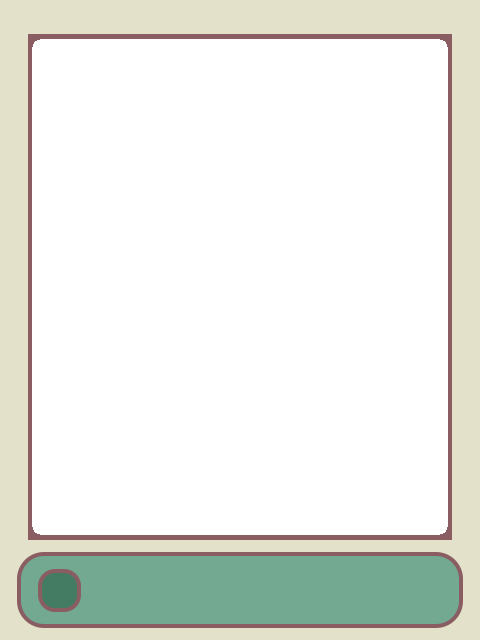
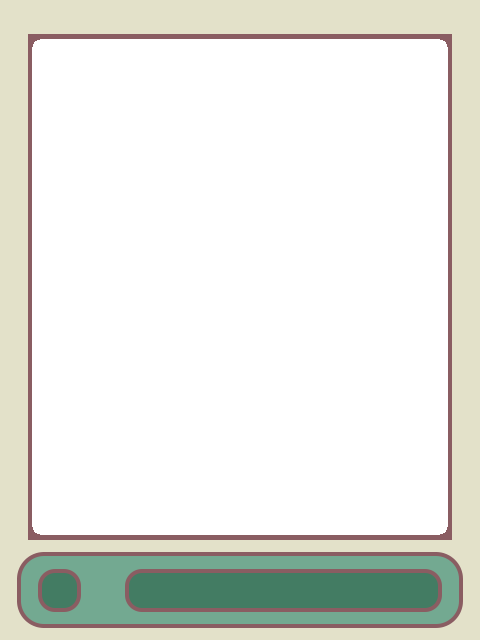
Add Main Control Buttons - Add red and blue main buttons - Control of buttons mimics the user input

Changed region(s): [[0.25, 0.875, 0.9375, 0.9688]]

diff --git a/crates/arcade/src/cabinet.rs b/crates/arcade/src/cabinet.rs
@@ -14,13 +14,23 @@ const JOYSTICK_FRAMES: [&str;9] = [
     "ControlDownRight.png", // 8
 ];
 
-pub struct JoystickState(usize);
+const BUTTON_FRAMES: [&str;4] = [
+    "BlueButtonUp.png",   // 0
+    "BlueButtonDown.png", // 1
+    "RedButtonUp.png",    // 2
+    "RedButtonDown.png",  // 3
+];
+
+struct JoystickState(usize);
+struct ButtonState(usize);
 
 pub struct Cabinet {
 
     cabinet_texture: Texture2D,
     joystick_atlas: TextureAtlas,
     joystick_state: JoystickState,
+    blue_button_state: ButtonState,
+    red_button_state: ButtonState,
 }
 
 
@@ -28,12 +38,14 @@ impl Cabinet {
     pub async fn new() -> Self {
         let cabinet_texture = load_texture("assets/cabinet/arcade_cabinet.png").await.unwrap();
 
-        let joystick_atlas = TextureAtlas::from_data("assets/atlas/joystick.json", Some("assets/atlas/joystick.png")).await.unwrap();
+        let joystick_atlas = TextureAtlas::from_data("assets/atlas/joystick_buttons.json", Some("assets/atlas/joystick_buttons.png")).await.unwrap();
 
         Cabinet {
             cabinet_texture,
             joystick_atlas,
             joystick_state: JoystickState(4),
+            blue_button_state: ButtonState(0),
+            red_button_state: ButtonState(2),
         }
     }
 
@@ -66,10 +78,17 @@ impl Cabinet {
         };
 
         self.joystick_state = JoystickState(3 * joystick_y + joystick_x);
+
+
+        self.blue_button_state = if is_key_down(KeyCode::Space) { ButtonState(1) } else { ButtonState(0) };
+        self.red_button_state = if is_key_down(KeyCode::LeftControl) || is_key_down(KeyCode::RightControl) { ButtonState(3) } else { ButtonState(2) };
+
     }
 
     pub fn draw(&self) {
         draw_texture(self.cabinet_texture, 0.0, 0.0, WHITE);
         self.joystick_atlas.draw_texture(JOYSTICK_FRAMES[self.joystick_state.0], 16., 536., 0., WHITE);
+        self.joystick_atlas.draw_texture(BUTTON_FRAMES[self.blue_button_state.0], 160., 573., 0., WHITE);
+        self.joystick_atlas.draw_texture(BUTTON_FRAMES[self.red_button_state.0], 160., 573., 0., WHITE);
     }
 }

diff --git a/crates/wfc/src/field.rs b/crates/wfc/src/field.rs
@@ -84,7 +84,7 @@ impl WaveFunctionSector {
             cells.push(WaveFunctionCell::new_empty(tileset));
         }
 
-        WaveFunctionSector {
+    WaveFunctionSector {
             // width,
             // height,
             cells,
